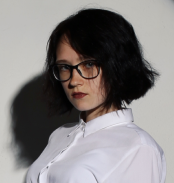
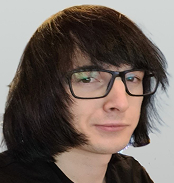
fix

diff --git a/src/scss/sections/_footer.scss b/src/scss/sections/_footer.scss
@@ -5,7 +5,8 @@ footer.footer{
 	padding-bottom: remy(100);
 	color: rgba(121, 121, 121, .8);
 	@media (max-width: 767px) {
-	padding-bottom: 50px;
+		padding-bottom: 50px;
+		padding-top: 40px;
 	}
 	.footer-content{
 		display: flex;
@@ -18,7 +19,7 @@ footer.footer{
 	.footer-logo{
 		.logo{margin-bottom: remy(28);}
 		@media (max-width: 767px) {
-			margin-bottom: 22px;
+			margin-bottom: 12px;
 		}
 			
 	}
@@ -119,13 +120,24 @@ footer.footer{
 }
 .footer-mobile-content{
 	display: none;
-	.social-block{margin-bottom: 26px;}
+	.social-block{margin-bottom: 30px;}
+	
 	.link{color: #d6d6d6; border-bottom: none;}
 	.email-link {font-size: remy(18)}
 	@media (max-width: 767px) {
 			display: flex;
 			flex-direction: column;
 			row-gap:22px;
+			.social-block{column-gap:32px;}
+			.social-block__group{
+				display: flex;
+				column-gap:22px;
+				align-items: center;;
+			}
+			.social-block__group +.social-block__group{
+				padding-left: 32px;
+				border-left: 1px solid #4D4E4F;
+			}
 		}
 }
 @media (max-width: 767px) { 

diff --git a/src/scss/sections/_highlight.scss b/src/scss/sections/_highlight.scss
@@ -1,5 +1,5 @@
 @use "base/var" as *;
-.highlight{
+.highlight-wrapper{
 	@media (max-width: 767px) {
 	display: none;
 	}
@@ -42,3 +42,7 @@
 		line-height: 0.9;
 	}
   }
+.highlight-gif{display: flex;justify-content: center;}
+.hidden {
+  display: none !important;
+}

diff --git a/src/scss/blocks/_city-select.scss b/src/scss/blocks/_city-select.scss
@@ -36,4 +36,10 @@
 	border:1px solid white;
 	text-align: center;
 	line-height: remy(50);
+	transition: .3s; 
+	&:hover{
+		border:1px solid #D4DEEF;
+		background-color: #D4DEEF;
+		color: #414346;
+	}
 }

diff --git a/src/scss/sections/_header.scss b/src/scss/sections/_header.scss
@@ -81,7 +81,7 @@
 		color: #6e6e6e;
 		text-align: left;
 		transition: .3s; 
-		&:hover{opacity: .5;}
+		&:hover{color: #ffffff;}
 	}
 	@media (max-width: 767px) {
 		.phone-contacts {

diff --git a/src/scss/sections/_our-clients.scss b/src/scss/sections/_our-clients.scss
@@ -36,6 +36,8 @@
 	img{
 		object-fit: cover;
 		flex-shrink: 0;
+		width: 100%;
+		height: 100%;
 	}
 	.img-mono{display: block;}
 	.img-color{display: none;}
